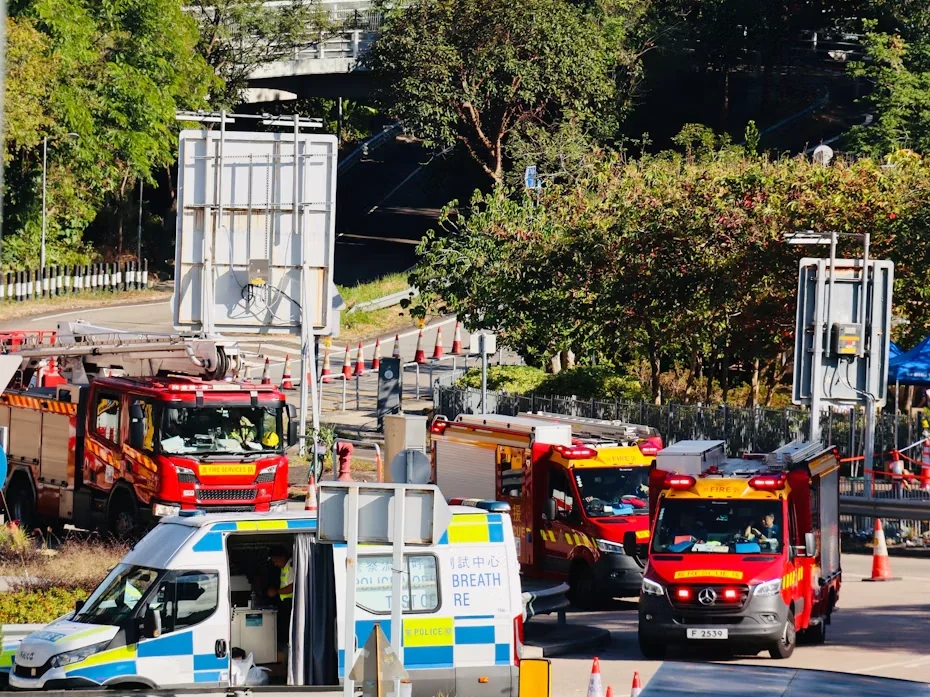
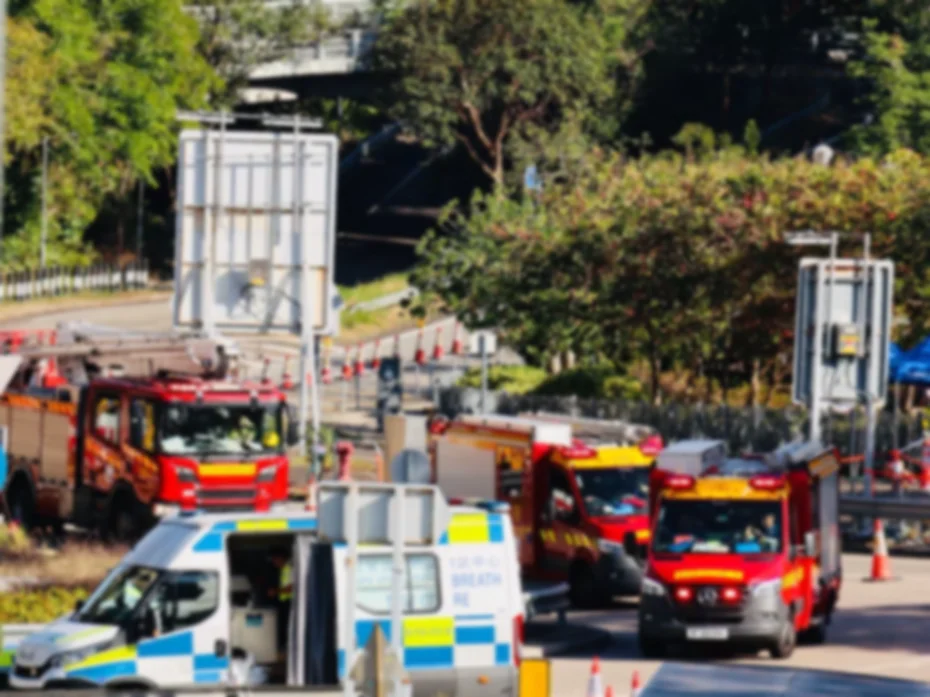
Blur Readyware's card photo slightly
A 2px blur in the file, so the fire engines read as out of focus behind
the screen.

Claude-Session: https://claude.ai/code/session_019uvhNxDWy5YB2kmiB67MZT

diff --git a/site/src/content/projects.ts b/site/src/content/projects.ts
@@ -90,7 +90,9 @@ export const projects: Project[] = [
       alt: "The Overview of a test incident, 'Fire at Sjøberg school', on a tablet: a blue test banner across the top, the key roles, what has happened with a situation map, and the latest logs.",
     },
     // Behind the screen on the card only: the screen morphs into the
-    // page's hero carousel, the photo stays on the homepage.
+    // page's hero carousel, the photo stays on the homepage. Cropped from
+    // `assets/readyware/card-scene-original.webp` and blurred slightly
+    // (2px Gaussian, in the file) so the focus is on the screen.
     scene: {
       ratio: "4 / 3",
       caption: "Fire engines and a police van at a cordon, on a sunny day.",

diff --git a/CHANGELOG.md b/CHANGELOG.md
@@ -11,6 +11,12 @@ Related: project-docs/{insights|decisions|specs}/filename.md
 
 ---
 
+## 2026-10-16 — Readyware's card photo, slightly out of focus
+The fire engine photo behind the card's screen is blurred a little, in the
+file, like a shallow depth of field: what is behind is still clear, but the
+eye goes to the screen.
+Related: project-docs/specs/case-study-sections.md
+
 ## 2026-10-16 — Readyware's card: the screen in front of the scene
 The homepage card now shows fire engines at a cordon on a sunny day, with
 the incident Overview in front at 80% of the width. Only the screen morphs
